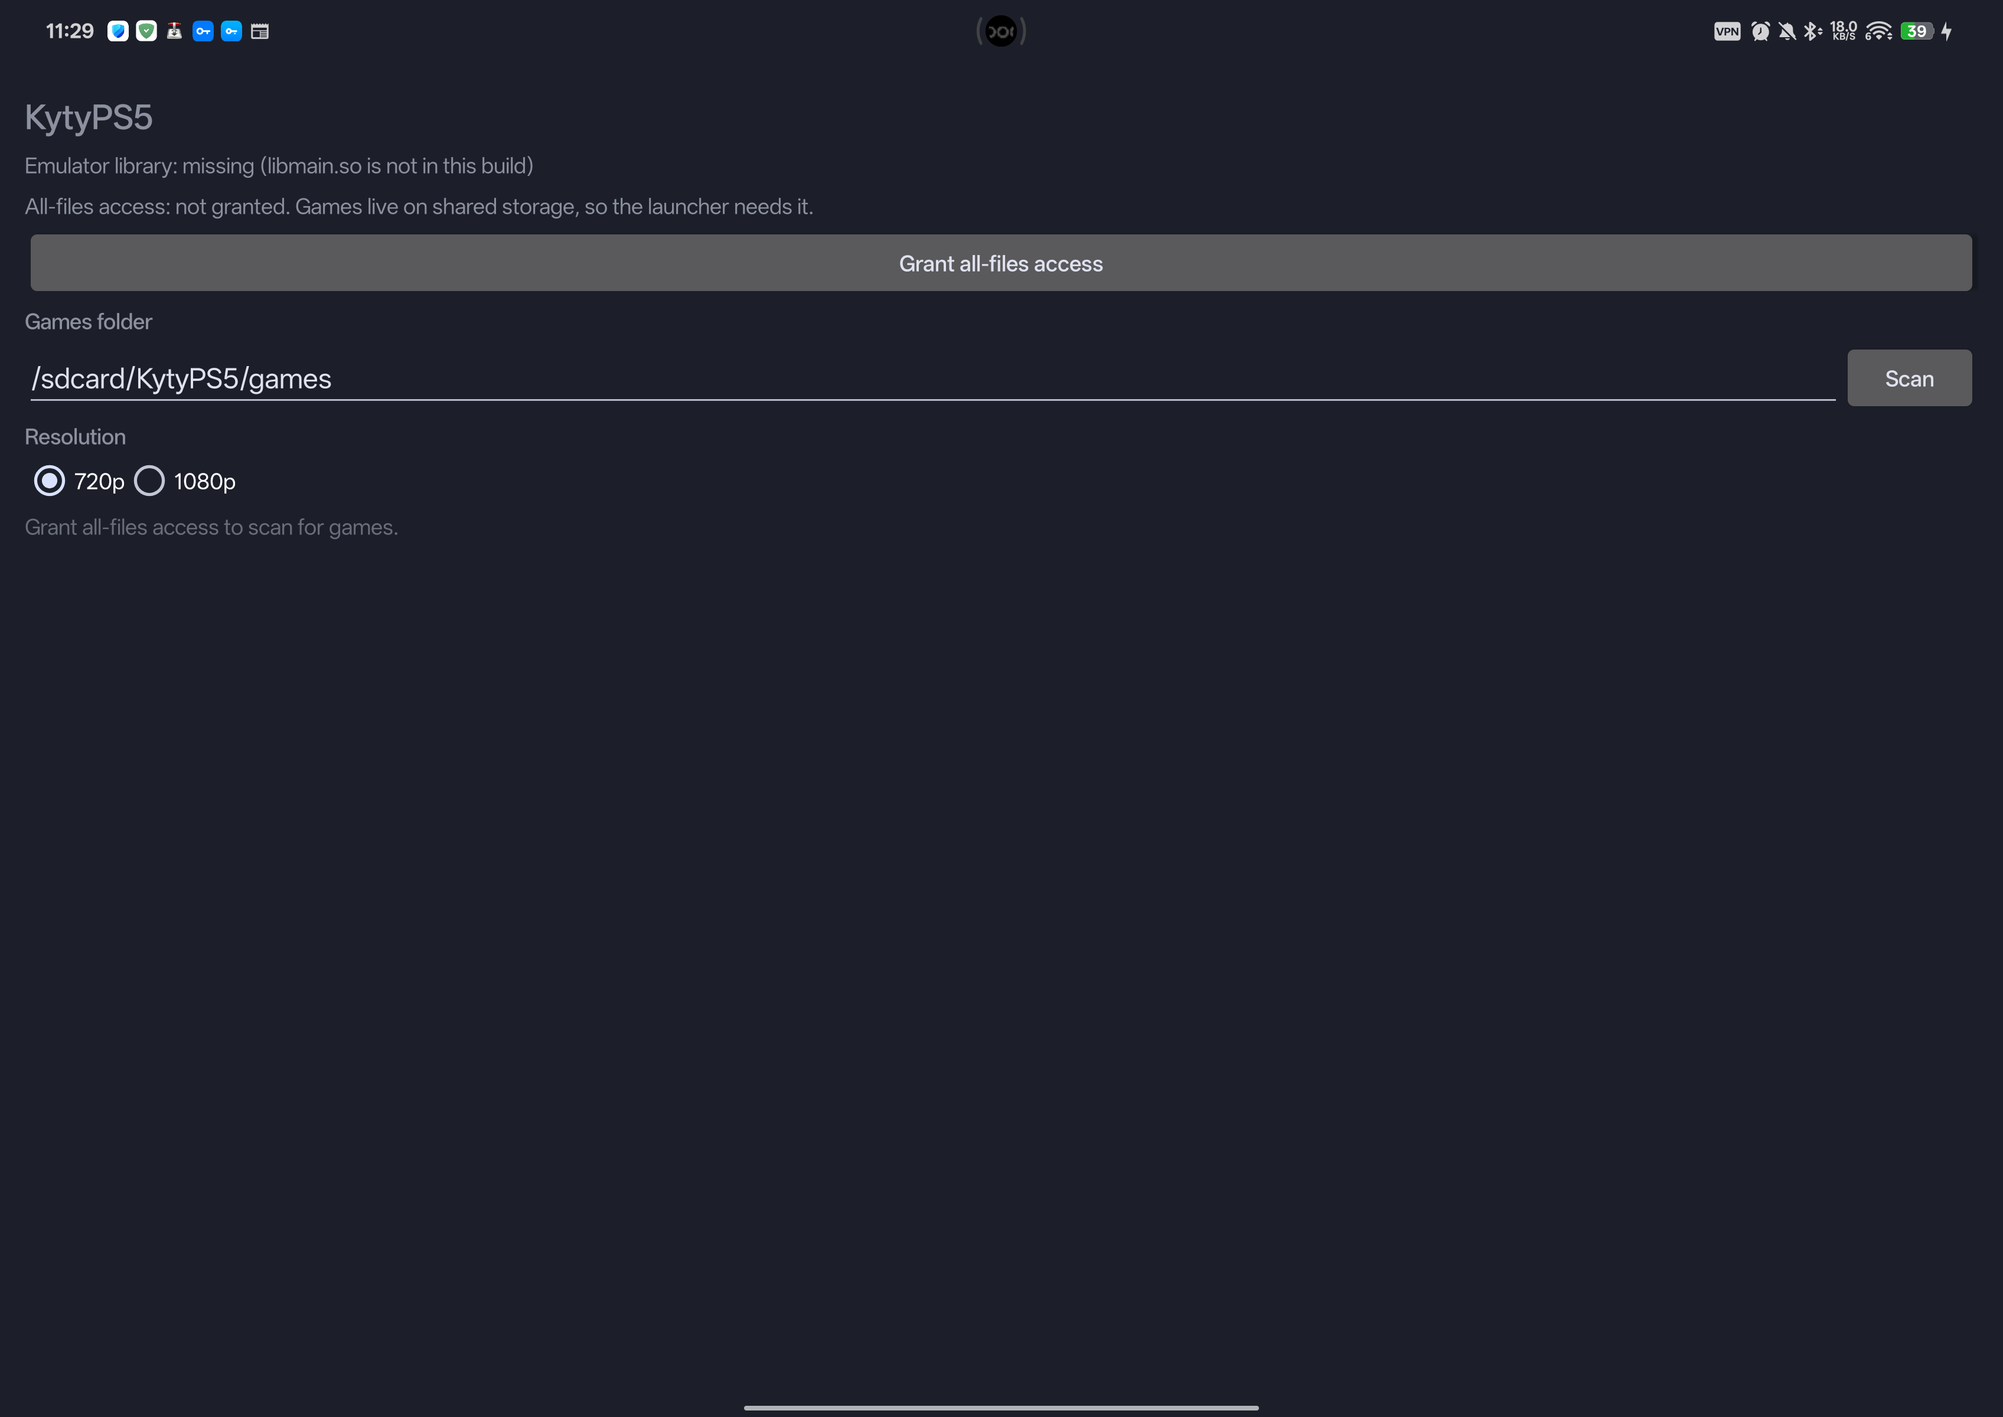
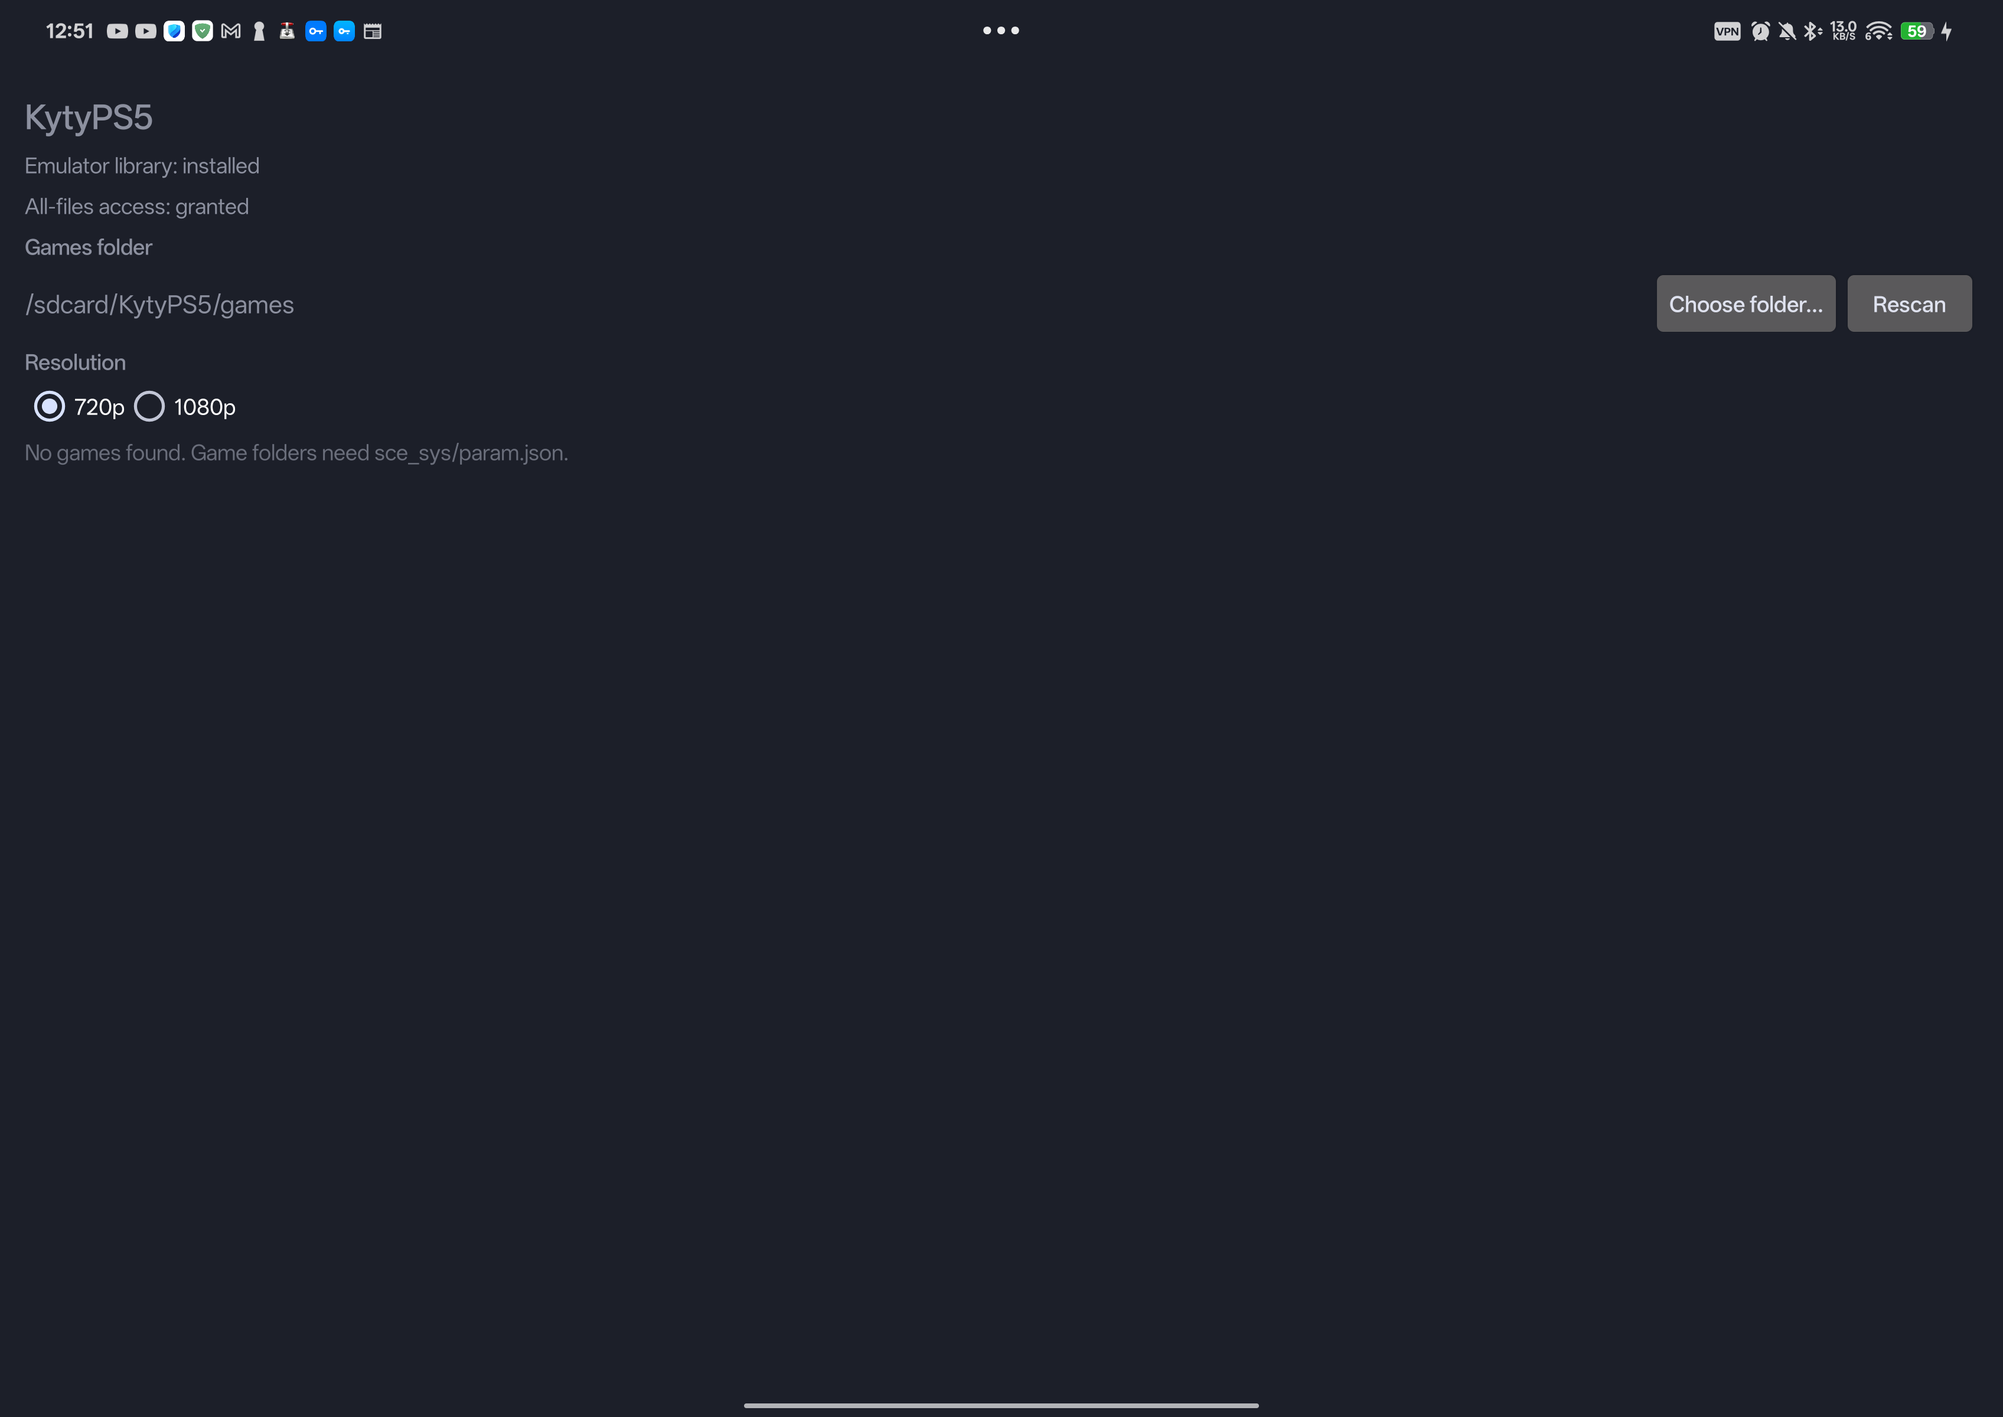
feat: system folder picker and nested-dump scanning in the launcher
Replace the typed games-folder path with ACTION_OPEN_DOCUMENT_TREE,
opened at the current folder (or its nearest existing parent) and
mapped back to a real path (primary storage or SD card; cloud folders
are rejected). First run creates /sdcard/KytyPS5/games. Scanning now
accepts a picked folder that is itself a game and finds dumps nested
up to three levels deep (e.g. 'X (ver)/X (ver)/eboot.bin').

diff --git a/android/app/src/main/java/com/kytyps5/android/MainActivity.kt b/android/app/src/main/java/com/kytyps5/android/MainActivity.kt
@@ -9,14 +9,13 @@ import android.os.Bundle
 import android.os.Environment
 import android.os.Handler
 import android.os.Looper
+import android.provider.DocumentsContract
 import android.provider.Settings
-import android.text.InputType
 import android.view.Gravity
 import android.view.View
 import android.view.WindowInsets
 import android.view.ViewGroup
 import android.widget.Button
-import android.widget.EditText
 import android.widget.LinearLayout
 import android.widget.RadioButton
 import android.widget.RadioGroup
@@ -26,7 +25,7 @@ import java.io.File
 import java.util.concurrent.ExecutorService
 import java.util.concurrent.Executors
 
-/** Game picker: checks all-files access, scans the games folder and launches [GameActivity]. */
+/** Game picker: checks all-files access, picks and scans the games folder, launches [GameActivity]. */
 class MainActivity : Activity() {
 
     private lateinit var settings: LauncherSettings
@@ -37,7 +36,7 @@ class MainActivity : Activity() {
     private lateinit var nativeStatus: TextView
     private lateinit var storageStatus: TextView
     private lateinit var grantButton: Button
-    private lateinit var rootInput: EditText
+    private lateinit var folderPath: TextView
     private lateinit var resolutionGroup: RadioGroup
     private lateinit var message: TextView
     private lateinit var gameList: LinearLayout
@@ -54,6 +53,7 @@ class MainActivity : Activity() {
         super.onResume()
         refreshStorageState()
         if (Environment.isExternalStorageManager()) {
+            ensureDefaultGamesFolder()
             scanGames(settings.gamesRoot)
         } else {
             showMessage("Grant all-files access to scan for games.")
@@ -78,12 +78,7 @@ class MainActivity : Activity() {
             text = "Grant all-files access"
             setOnClickListener { openAllFilesAccessSettings() }
         }
-        rootInput = EditText(this).apply {
-            setText(settings.gamesRoot)
-            hint = LauncherSettings.DEFAULT_GAMES_ROOT
-            inputType = InputType.TYPE_CLASS_TEXT or InputType.TYPE_TEXT_VARIATION_URI
-            isSingleLine = true
-        }
+        folderPath = label(settings.gamesRoot, sizeSp = 16f)
         resolutionGroup = buildResolutionGroup()
         message = label("", secondary = true)
         gameList = LinearLayout(this).apply { orientation = LinearLayout.VERTICAL }
@@ -100,9 +95,13 @@ class MainActivity : Activity() {
                 LinearLayout(context).apply {
                     orientation = LinearLayout.HORIZONTAL
                     gravity = Gravity.CENTER_VERTICAL
-                    addView(rootInput, LinearLayout.LayoutParams(0, ViewGroup.LayoutParams.WRAP_CONTENT, 1f))
+                    addView(folderPath, LinearLayout.LayoutParams(0, ViewGroup.LayoutParams.WRAP_CONTENT, 1f))
                     addView(Button(context).apply {
-                        text = "Scan"
+                        text = "Choose folder…"
+                        setOnClickListener { openFolderPicker() }
+                    })
+                    addView(Button(context).apply {
+                        text = "Rescan"
                         setOnClickListener { onScanRequested() }
                     })
                 },
@@ -143,17 +142,47 @@ class MainActivity : Activity() {
     }
 
     private fun onScanRequested() {
-        val root = rootInput.text.toString().trim()
-        if (!root.startsWith("/")) {
-            showMessage("The games folder must be an absolute path, e.g. ${LauncherSettings.DEFAULT_GAMES_ROOT}")
-            return
-        }
         if (!Environment.isExternalStorageManager()) {
             showMessage("Grant all-files access before scanning.")
             return
         }
-        settings.gamesRoot = root
-        scanGames(root)
+        scanGames(settings.gamesRoot)
+    }
+
+    /** First run: create the default games folder so the picker and the scan start somewhere useful. */
+    private fun ensureDefaultGamesFolder() {
+        if (settings.gamesRoot != LauncherSettings.DEFAULT_GAMES_ROOT) return
+        val folder = File(LauncherSettings.DEFAULT_GAMES_ROOT)
+        if (!folder.isDirectory && !folder.mkdirs()) {
+            showMessage("Could not create ${folder.path}; choose a games folder instead.")
+        }
+    }
+
+    /** System folder picker, opened at the current games folder (or its closest existing parent). */
+    private fun openFolderPicker() {
+        val intent = Intent(Intent.ACTION_OPEN_DOCUMENT_TREE)
+        StoragePaths.nearestExistingFolder(settings.gamesRoot)
+            ?.let(StoragePaths::initialUriFor)
+            ?.let { intent.putExtra(DocumentsContract.EXTRA_INITIAL_URI, it) }
+        try {
+            startActivityForResult(intent, REQUEST_PICK_GAMES_FOLDER)
+        } catch (e: ActivityNotFoundException) {
+            showMessage("No folder picker is available on this device.")
+        }
+    }
+
+    @Deprecated("Platform Activity result API; this launcher has no AndroidX dependency.")
+    override fun onActivityResult(requestCode: Int, resultCode: Int, data: Intent?) {
+        super.onActivityResult(requestCode, resultCode, data)
+        if (requestCode != REQUEST_PICK_GAMES_FOLDER || resultCode != RESULT_OK) return
+        val path = data?.data?.let(StoragePaths::treeUriToPath)
+        if (path == null) {
+            showMessage("Pick a folder on device storage or an SD card (cloud folders can't be used).")
+            return
+        }
+        settings.gamesRoot = path
+        folderPath.text = path
+        onScanRequested()
     }
 
     /** Scans off the main thread. Only the most recent request may update the list. */
@@ -174,7 +203,7 @@ class MainActivity : Activity() {
             is ScanResult.Failure -> showMessage(result.message)
             is ScanResult.Found -> when {
                 result.games.isEmpty() ->
-                    showMessage("No games found. Game folders need sce_sys/param.json.")
+                    showMessage("No games found here. Choose a folder containing game dumps (a folder with sce_sys/param.json, or a .zar file).")
                 else -> {
                     showMessage("${result.games.size} game(s) found.")
                     result.games.forEach { gameList.addView(gameRow(it)) }
@@ -230,6 +259,10 @@ class MainActivity : Activity() {
 
     private fun showMessage(text: String) {
         message.text = text
+    }
+
+    private companion object {
+        const val REQUEST_PICK_GAMES_FOLDER = 1
     }
 
     private fun label(

diff --git a/android/app/src/main/java/com/kytyps5/android/StoragePaths.kt b/android/app/src/main/java/com/kytyps5/android/StoragePaths.kt
@@ -1,0 +1,77 @@
+package com.kytyps5.android
+
+import android.net.Uri
+import android.provider.DocumentsContract
+import java.io.File
+
+/**
+ * Maps between the system folder picker's document IDs and real filesystem paths. The emulator
+ * opens game files by path (the launcher holds all-files access), so a picked folder must live on
+ * device storage or an SD card; folders from cloud or app providers have no path and are rejected.
+ */
+object StoragePaths {
+    const val PRIMARY_ROOT = "/storage/emulated/0"
+    private const val EXTERNAL_STORAGE_AUTHORITY = "com.android.externalstorage.documents"
+    private const val PRIMARY_VOLUME = "primary"
+    private val LEGACY_PRIMARY_PREFIXES = listOf("/sdcard", "/storage/self/primary")
+    private val VOLUME_UUID = Regex("^[0-9A-Fa-f]{4}-[0-9A-Fa-f]{4}$")
+
+    /** Filesystem path of a folder returned by ACTION_OPEN_DOCUMENT_TREE, or null if it has none. */
+    fun treeUriToPath(treeUri: Uri): String? {
+        if (treeUri.authority != EXTERNAL_STORAGE_AUTHORITY) return null
+        return documentIdToPath(DocumentsContract.getTreeDocumentId(treeUri))
+    }
+
+    /** Document URI the picker should open at (EXTRA_INITIAL_URI), or null if [path] is not mappable. */
+    fun initialUriFor(path: String): Uri? =
+        pathToDocumentId(path)?.let { DocumentsContract.buildDocumentUri(EXTERNAL_STORAGE_AUTHORITY, it) }
+
+    /** "primary:KytyPS5/games" -> "/storage/emulated/0/KytyPS5/games"; "1A2B-3C4D:Games" -> "/storage/1A2B-3C4D/Games". */
+    fun documentIdToPath(documentId: String, primaryRoot: String = PRIMARY_ROOT): String? {
+        val separator = documentId.indexOf(':')
+        if (separator <= 0) return null
+        val volume = documentId.substring(0, separator)
+        val relative = documentId.substring(separator + 1).trim('/')
+        val base = when {
+            volume == PRIMARY_VOLUME -> primaryRoot
+            volume == "home" -> "$primaryRoot/Documents"
+            volume == "raw" -> return documentId.substring(separator + 1).takeIf { it.startsWith("/") }
+            VOLUME_UUID.matches(volume) -> "/storage/$volume"
+            else -> return null
+        }
+        return if (relative.isEmpty()) base else "$base/$relative"
+    }
+
+    /** Inverse of [documentIdToPath] for paths on primary storage or an SD card; null otherwise. */
+    fun pathToDocumentId(path: String, primaryRoot: String = PRIMARY_ROOT): String? {
+        val normalized = normalize(path, primaryRoot)
+        if (normalized == primaryRoot || normalized.startsWith("$primaryRoot/")) {
+            return "$PRIMARY_VOLUME:" + normalized.removePrefix(primaryRoot).trim('/')
+        }
+        val parts = normalized.removePrefix("/storage/").split('/', limit = 2)
+        if (normalized.startsWith("/storage/") && VOLUME_UUID.matches(parts[0])) {
+            return "${parts[0]}:" + parts.getOrElse(1) { "" }.trim('/')
+        }
+        return null
+    }
+
+    /** Closest existing folder at or above [path], so the picker never opens on a missing folder. */
+    fun nearestExistingFolder(path: String, exists: (String) -> Boolean = { File(it).isDirectory }): String? {
+        var current: String? = path.trimEnd('/').ifEmpty { "/" }
+        while (current != null) {
+            if (exists(current)) return current
+            current = File(current).parent
+        }
+        return null
+    }
+
+    private fun normalize(path: String, primaryRoot: String): String {
+        val trimmed = path.trimEnd('/')
+        for (prefix in LEGACY_PRIMARY_PREFIXES) {
+            if (trimmed == prefix || trimmed.startsWith("$prefix/")) {
+                return primaryRoot + trimmed.removePrefix(prefix)
+            }
+        }
+        return trimmed
+    }
+}

diff --git a/android/app/src/main/java/com/kytyps5/android/GameLibrary.kt b/android/app/src/main/java/com/kytyps5/android/GameLibrary.kt
@@ -24,21 +24,36 @@ object GameLibrary {
     const val PARAM_JSON = "sce_sys/param.json"
     const val ZARCHIVE_EXTENSION = "zar"
 
+    /** How deep below the chosen folder to look; dumps are often nested one or two levels. */
+    const val MAX_SCAN_DEPTH = 3
+
     fun scan(root: File): ScanResult {
         if (!root.exists()) return ScanResult.Failure("Folder not found: ${root.path}")
         if (!root.isDirectory) return ScanResult.Failure("Not a folder: ${root.path}")
-        val children = root.listFiles()
-            ?: return ScanResult.Failure("Cannot read ${root.path}. Check all-files access.")
-        val folders = children
-            .filter { it.isDirectory && File(it, PARAM_JSON).isFile }
-            .map { GameEntry(folder = it, title = readTitle(it)) }
-        // A .zar's param.json lives inside the archive; show the file name until the emulator reads it.
-        val archives = children
-            .filter { it.isFile && it.extension.equals(ZARCHIVE_EXTENSION, ignoreCase = true) }
-            .map { GameEntry(folder = it, title = it.nameWithoutExtension) }
-        val games = (folders + archives).sortedBy { it.title.lowercase() }
-        return ScanResult.Found(games)
+        if (root.listFiles() == null) {
+            return ScanResult.Failure("Cannot read ${root.path}. Check all-files access.")
+        }
+        val games = mutableListOf<GameEntry>()
+        collect(root, depth = 0, into = games)
+        return ScanResult.Found(games.sortedBy { it.title.lowercase() })
     }
+
+    /** The chosen folder may itself be a game; otherwise look below it, without entering games. */
+    private fun collect(folder: File, depth: Int, into: MutableList<GameEntry>) {
+        if (isGameFolder(folder)) {
+            into += GameEntry(folder = folder, title = readTitle(folder))
+            return
+        }
+        val children = folder.listFiles() ?: return
+        children
+            .filter { it.isFile && it.extension.equals(ZARCHIVE_EXTENSION, ignoreCase = true) }
+            .mapTo(into) { GameEntry(folder = it, title = it.nameWithoutExtension) }
+        if (depth >= MAX_SCAN_DEPTH) return
+        children.filter { it.isDirectory && !it.name.startsWith(".") }
+            .forEach { collect(it, depth + 1, into) }
+    }
+
+    private fun isGameFolder(folder: File): Boolean = File(folder, PARAM_JSON).isFile
 
     fun readTitle(folder: File): String {
         val fallback = folder.name

diff --git a/android/app/src/test/java/com/kytyps5/android/StoragePathsTest.kt b/android/app/src/test/java/com/kytyps5/android/StoragePathsTest.kt
@@ -1,0 +1,49 @@
+package com.kytyps5.android
+
+import org.junit.Assert.assertEquals
+import org.junit.Assert.assertNull
+import org.junit.Test
+
+class StoragePathsTest {
+
+    @Test
+    fun primaryAndSdCardDocumentIdsMapToPaths() {
+        assertEquals("/storage/emulated/0/KytyPS5/games", StoragePaths.documentIdToPath("primary:KytyPS5/games"))
+        assertEquals("/storage/emulated/0", StoragePaths.documentIdToPath("primary:"))
+        assertEquals("/storage/1A2B-3C4D/PS5", StoragePaths.documentIdToPath("1A2B-3C4D:PS5"))
+        assertEquals("/storage/emulated/0/Documents/g", StoragePaths.documentIdToPath("home:g"))
+        assertEquals("/data/x", StoragePaths.documentIdToPath("raw:/data/x"))
+    }
+
+    @Test
+    fun providersWithoutPathsAreRejected() {
+        assertNull(StoragePaths.documentIdToPath("msf:1234"))
+        assertNull(StoragePaths.documentIdToPath("no-separator"))
+        assertNull(StoragePaths.documentIdToPath(":empty-volume"))
+    }
+
+    @Test
+    fun pathsMapBackToDocumentIdsIncludingLegacySdcardAlias() {
+        assertEquals("primary:KytyPS5/games", StoragePaths.pathToDocumentId("/sdcard/KytyPS5/games"))
+        assertEquals("primary:KytyPS5/games", StoragePaths.pathToDocumentId("/storage/emulated/0/KytyPS5/games/"))
+        assertEquals("primary:", StoragePaths.pathToDocumentId("/storage/emulated/0"))
+        assertEquals("1A2B-3C4D:PS5", StoragePaths.pathToDocumentId("/storage/1A2B-3C4D/PS5"))
+        assertNull(StoragePaths.pathToDocumentId("/data/local/tmp"))
+    }
+
+    @Test
+    fun roundTripIsStable() {
+        val path = "/storage/emulated/0/Games/PS5 Dumps"
+        assertEquals(path, StoragePaths.documentIdToPath(StoragePaths.pathToDocumentId(path)!!))
+    }
+
+    @Test
+    fun nearestExistingFolderWalksUp() {
+        val existing = setOf("/storage/emulated/0", "/storage/emulated/0/KytyPS5")
+        assertEquals(
+            "/storage/emulated/0/KytyPS5",
+            StoragePaths.nearestExistingFolder("/storage/emulated/0/KytyPS5/games") { it in existing },
+        )
+        assertNull(StoragePaths.nearestExistingFolder("/nowhere/at/all") { false })
+    }
+}

diff --git a/android/app/src/test/java/com/kytyps5/android/GameLibraryTest.kt b/android/app/src/test/java/com/kytyps5/android/GameLibraryTest.kt
@@ -77,6 +77,29 @@ class GameLibraryTest {
     }
 
     @Test
+    fun scanFindsNestedDumpsAndTreatsAGameRootAsOneGame() {
+        val outer = File(root, "PPSA21567 ASTRO BOT (01.019.000)")
+        File(outer, "PPSA21567 ASTRO BOT (01.019.000)/sce_sys").mkdirs()
+        File(outer, "PPSA21567 ASTRO BOT (01.019.000)/sce_sys/param.json").writeText("""{"titleName":"ASTRO BOT"}""")
+        File(outer, "PPSA21567 ASTRO BOT (01.019.000)/sce_module").mkdirs() // not descended into
+
+        val fromParent = GameLibrary.scan(root) as ScanResult.Found
+        assertEquals(listOf("ASTRO BOT"), fromParent.games.map { it.title })
+
+        val gameDir = File(outer, "PPSA21567 ASTRO BOT (01.019.000)")
+        val fromGame = GameLibrary.scan(gameDir) as ScanResult.Found
+        assertEquals(gameDir.absolutePath, fromGame.games.single().path)
+    }
+
+    @Test
+    fun scanStopsAtMaxDepth() {
+        val deep = File(root, "a/b/c/d/game")
+        File(deep, "sce_sys").mkdirs()
+        File(deep, "sce_sys/param.json").writeText("""{"titleName":"Too Deep"}""")
+        assertTrue((GameLibrary.scan(root) as ScanResult.Found).games.isEmpty())
+    }
+
+    @Test
     fun scanReportsMissingAndNonDirectoryRoots() {
         val missing = GameLibrary.scan(File(root, "nope"))
         assertTrue(missing is ScanResult.Failure)
